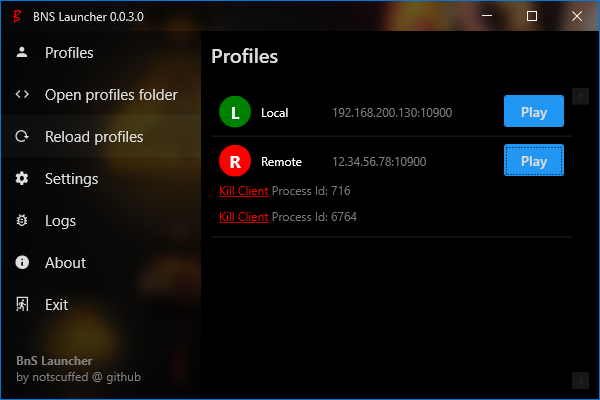
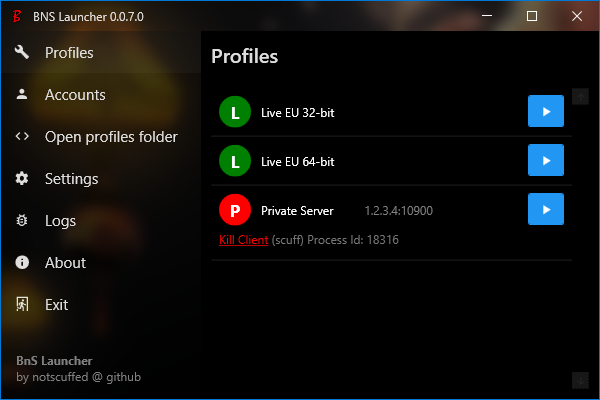
Updated README and screenshot

diff --git a/README.md b/README.md
@@ -1,70 +1,64 @@
 # BNS Launcher
 
-Custom Blade & Soul game launcher with ability to pick xml profile and couple other options.
+Custom Blade & Soul game launcher with profile support and more.
+Works with live game & private server client.
 
+Source for modified bnspatch/pluginloader for private server client is inside Dlls folder.
 
 ## Features:
 
-   - Multiclient - run multiple games at once
-   - Multiple profiles thanks to runtime xml modifying using dll by zeffy
-   - Few hidden client settings
-  
-### Screenshoot
+   - Account manager
+   - Auto login - automatically log in to account in game (thanks to Hora from mod police discord)
+   - Auto pin - automatically put pin in game (thanks to Hora from mod police discord)
+   - Replace datafile.bin/localfile.bin at runtime (thanks to Hora from mod police discord)
+   - Multiclient - run multiple clients at once (thanks to [pilao aka. zeffy][0.0])
+   - Profiles (thanks to [pilao aka. zeffy][0.0])
+   - Completly stops game guard from initializing in private server client
+
+[0.0]: https://github.com/zeffy
+
+## Screenshoot
 
 ![Alt text](/Screenshots/BnsLauncher.png?raw=true "Bns Launcher")
-  
-### Profile sample
-Cut down sample profile.
-```xml
-<?xml version="1.0" encoding="utf-8"?>
-<patches name="Local" background="green" foreground="white">
-  <patch file="release.config2.xml">
-    <select-node query="/config">
-      <!-- Lobby gate address -->
-      <select-node query="./option[@name='lobby-gate-address']/@value">
-        <set-value value="192.168.200.130" />
-      </select-node>
-      
-      <!-- Lobby gate port -->
-      <select-node query="./option[@name='lobby-gate-port']/@value">
-        <set-value value="10900" />
-      </select-node>
 
-      <!-- Don't minimize other windows -->
-      <select-node query="./option[@name='minimize-window']/@value">
-        <set-value value="false" />
-      </select-node>
-      
-      <!-- NP Address -->
-      <select-node query="./option[@name='np-address']/@value">
-        <set-value value="192.168.200.130" />
-      </select-node>
-      
-      <!-- NP Port -->
-      <select-node query="./option[@name='np-port']/@value">
-        <set-value value="6600" />
-      </select-node>
-    </select-node>
-  </patch>
-</patches>
-```
+## Installation
 
-  
+1. Extract BnsLauncher.zip and put the launcher wherever you want
+2. Copy bin/bin64 containing required plugin loader & plugins to your client folder
+3. Run the launcher
+4. Click open profiles folder
+5. Edit profile.xml inside game profile you want to use
+6. Change clientpath to your client path
+7. Check other xml configs for more settings
+8. Add accounts if you want to use autologin feature (make sure it's enabled in loginhelper.xml in your profile folder)
+
+## Additional info
+
+- Profiles reload automatically on any file modification inside Profiles folder
+- To create more profiles just duplicate one of them, change name inside profile.xml to change name
+- Only profile.xml is required for profile to work you can delete other xmls you don't use
+- Clicking play when there's no accounts that match profile to be launched will just start the game without auto login, otherwise you will be asked to select account
+
+## Private server info
+
+- If you get an error while starting the client make sure path to client doesn't contain non ASCII characters (chinese characters, other languages etc.)
+
 ## Acknowledgements:
-- [bnsmodpolice/**bnspatch**][0.0] (MIT License)
-- [bnsmodpolice/**pluginloader**][0.1] (MIT License)
-- [unitycontainer/**unity**][0.2] (Apache License 2.0)
-- [Fody/**PropertyChanged**][0.3] (MIT License)
-- [Newtonsoft/**Json**][0.4] (MIT License)
-- [MaterialDesignInXAML/**MaterialDesignInXamlToolkit**][0.5] (MIT License)
-- [Caliburn/**Micro**][0.6] (MIT License)
-- [sourcechord/**FluentWPF**][0.7] (MIT License)
+- [bnsmodpolice/**bnspatch**][1.0] (MIT License)
+- [bnsmodpolice/**pluginloader**][1.1] (MIT License)
+- Hora from mod police discord for binloader.dll & loginhelper.dll
+- [unitycontainer/**unity**][1.2] (Apache License 2.0)
+- [Fody/**PropertyChanged**][1.3] (MIT License)
+- [Newtonsoft/**Json**][1.4] (MIT License)
+- [MaterialDesignInXAML/**MaterialDesignInXamlToolkit**][1.5] (MIT License)
+- [Caliburn/**Micro**][1.6] (MIT License)
+- [sourcechord/**FluentWPF**][1.7] (MIT License)
 
-[0.0]: https://github.com/bnsmodpolice/bnspatch
-[0.1]: https://github.com/bnsmodpolice/pluginloader
-[0.2]: https://github.com/unitycontainer/unity
-[0.3]: https://github.com/Fody/PropertyChanged 
-[0.4]: https://github.com/JamesNK/Newtonsoft.Json
-[0.5]: https://github.com/MaterialDesignInXAML/MaterialDesignInXamlToolkit
-[0.6]: https://github.com/Caliburn-Micro/Caliburn.Micro
-[0.7]: https://github.com/sourcechord/FluentWPF
+[1.0]: https://github.com/bnsmodpolice/bnspatch
+[1.1]: https://github.com/bnsmodpolice/pluginloader
+[1.2]: https://github.com/unitycontainer/unity
+[1.3]: https://github.com/Fody/PropertyChanged 
+[1.4]: https://github.com/JamesNK/Newtonsoft.Json
+[1.5]: https://github.com/MaterialDesignInXAML/MaterialDesignInXamlToolkit
+[1.6]: https://github.com/Caliburn-Micro/Caliburn.Micro
+[1.7]: https://github.com/sourcechord/FluentWPF
